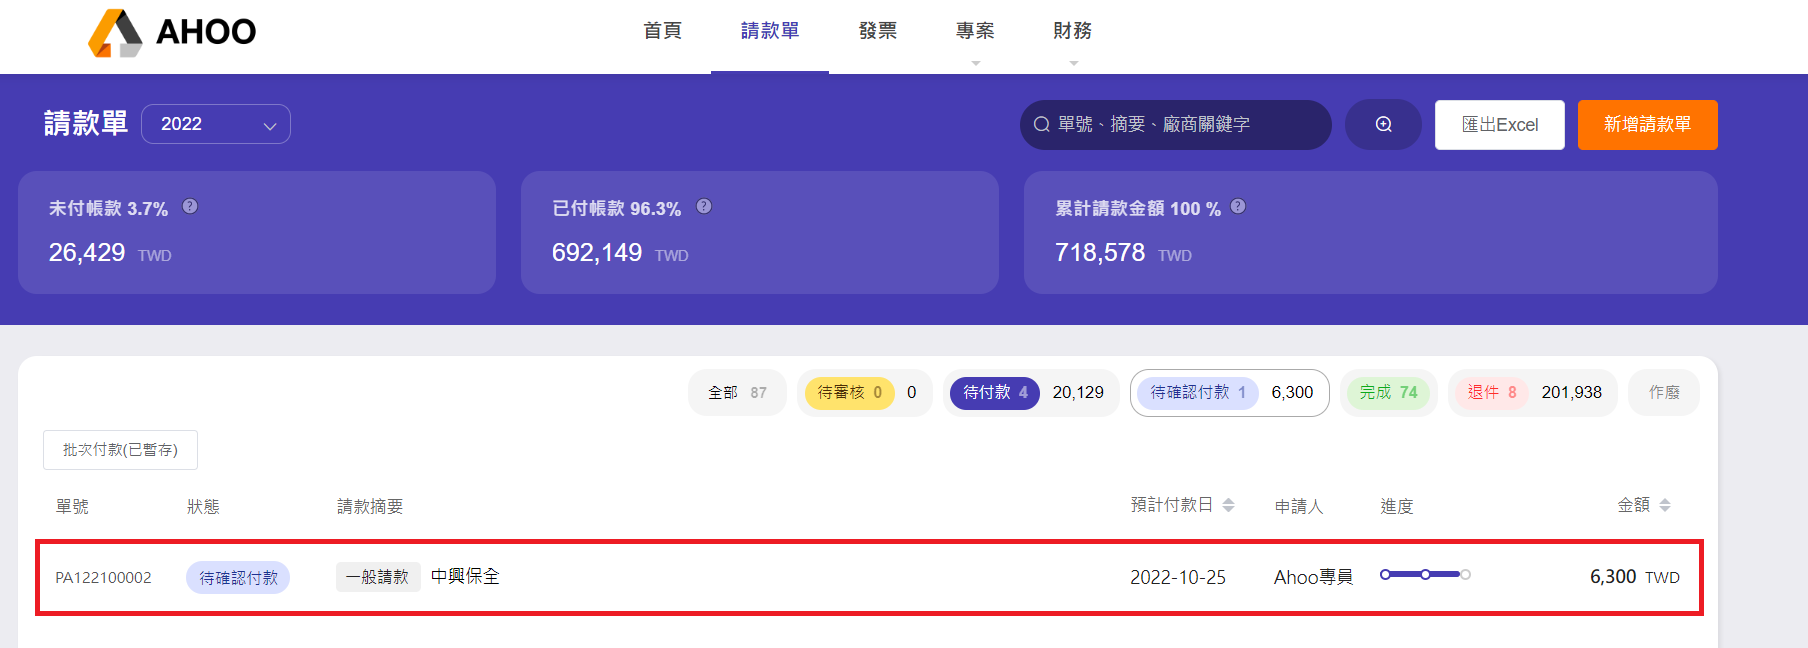
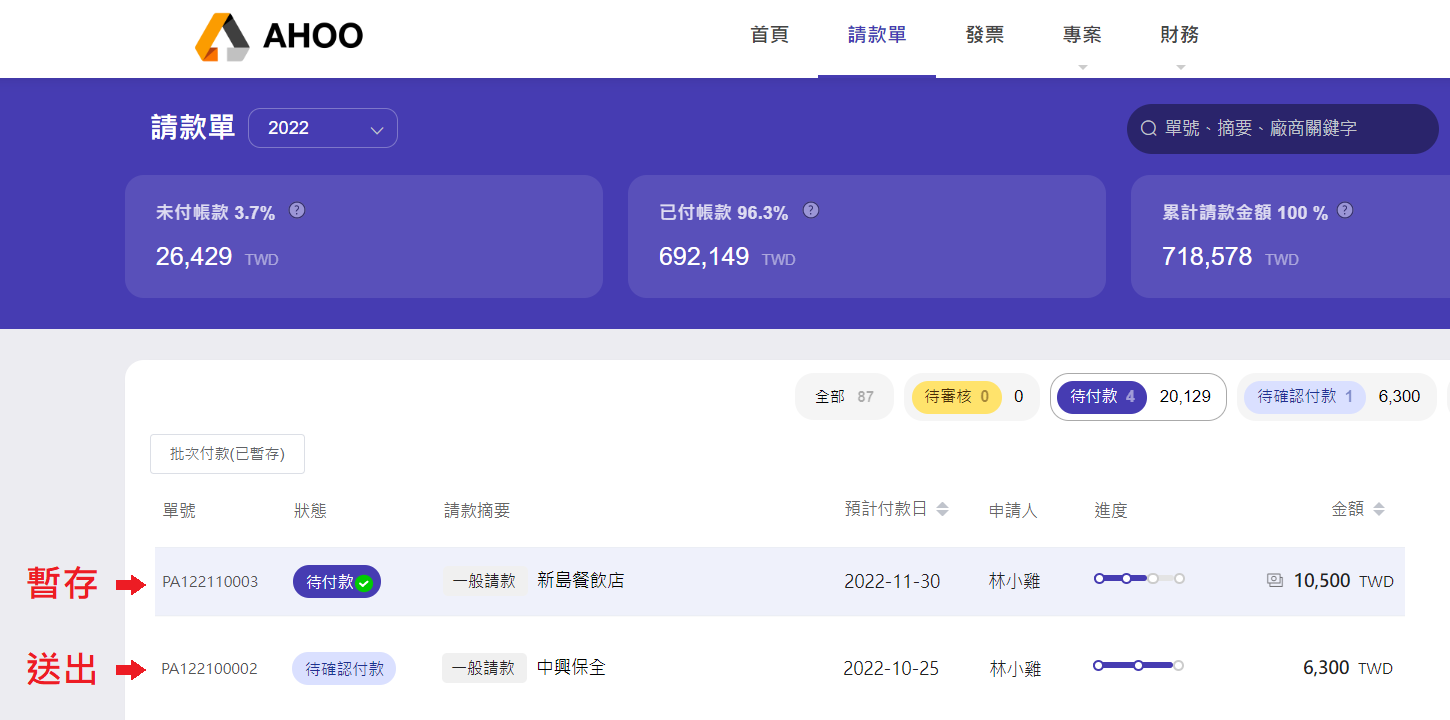
目錄頁/側邊選單調整

diff --git a/docs/.vuepress/config.js b/docs/.vuepress/config.js
@@ -22,26 +22,27 @@ module.exports = {
       // ----------------------------------------
       "/employee/": [
         {
-          text: "[專案]",
-          collapsable: true,
+          text: "專案",
+          collapsable: false,
           children: [
+            {
+              text: "專案管理",
+              link: "/employee/project/create-project/",
+            },
             {
               text: "客戶管理",
               link: "/employee/project/vendor/",
             },
+
             {
               text: "委外管理",
               link: "/employee/project/outsourcing/",
             },
-            {
-              text: "專案管理(PM)",
-              link: "/employee/project/create-project/",
-            },
           ],
         },
         {
-          text: "[請款單]",
-          collapsable: true,
+          text: "請款單",
+          collapsable: false,
           children: [
             {
               text: "新增請款單",
@@ -54,8 +55,8 @@ module.exports = {
           ],
         },
         {
-          text: "[發票]",
-          collapsable: true,
+          text: "發票",
+          collapsable: false,
           children: [
             {
               text: "",
@@ -79,8 +80,8 @@ module.exports = {
       // ----------------------------------------
       "/executive/": [
         {
-          text: "[請款單]",
-          collapsable: true,
+          text: "請款單",
+          collapsable: false,
           children: [
             {
               text: "請款單付款",
@@ -89,22 +90,12 @@ module.exports = {
           ],
         },
         {
-          text: "[發票]",
-          collapsable: true,
+          text: "發票",
+          collapsable: false,
           children: [
             {
               text: "開立發票",
               link: "/executive/invoice/invoice-pass/",
-            },
-          ],
-        },
-        {
-          text: "[財務]",
-          collapsable: true,
-          children: [
-            {
-              text: "發票字軌管理",
-              link: "/executive/finance/invoice-serial-number/",
             },
           ],
         },
@@ -114,8 +105,8 @@ module.exports = {
       // ----------------------------------------
       "/finance/": [
         {
-          text: "[請款]",
-          collapsable: true,
+          text: "請款",
+          collapsable: false,
           children: [
             {
               text: "確認付款",
@@ -128,8 +119,8 @@ module.exports = {
           ],
         },
         {
-          text: "[發票]",
-          collapsable: true,
+          text: "發票",
+          collapsable: false,
           children: [
             {
               text: "發票入帳",
@@ -138,12 +129,16 @@ module.exports = {
           ],
         },
         {
-          text: "[財務]",
-          collapsable: true,
+          text: "財務",
+          collapsable: false,
           children: [
             {
               text: "填寫匯費",
               link: "/finance/finance/remittances/",
+            },
+            {
+              text: "發票字軌管理",
+              link: "/finance/finance/invoice-serial-number/",
             },
           ],
         },

diff --git a/docs/README.md b/docs/README.md
@@ -1,17 +1,23 @@
 # Ahoo 操作手冊
 
+## 專案
+
+| 角色              | 工作                                                                                                                                      |
+| ----------------- | ----------------------------------------------------------------------------------------------------------------------------------------- |
+| [員工](/employee) | [專案管理](/employee/project/create-project)<br> [客戶管理](/employee/project/outsourcing/)<br>[委外管理](/employee/project/outsourcing/) |
+
 ## 請款
 
-| 角色               |                                                                                                          |
+| 角色               | 工作                                                                                                     |
 | ------------------ | -------------------------------------------------------------------------------------------------------- |
-| [員工](/employee)  | [新增請款單](/employee/payment/create-payment/)<br>[申請人自行取回](/employee/payment/retrieve-payment/) |
+| [員工](/employee)  | [新增請款單](/employee/payment/create-payment/)<br>[自行退回再編輯](/employee/payment/retrieve-payment/) |
 | [行政](/executive) | [請款單付款](/executive/payment/detail/)                                                                 |
 | [財務](/finance)   | [確認付款](/finance/payment/done/)<br>[填寫匯費](/finance/finance/remittances/)                          |
 
 ## 開立發票
 
-| 角色               |                                                                                                       |
-| ------------------ | ----------------------------------------------------------------------------------------------------- |
-| [員工](/employee)  | [建立專案(PM)](/employee/project/create-project)<br>[申請開立發票](/employee/invoice/create-invoice/) |
-| [行政](/executive) | [開立發票](/executive/invoice/invoice-pass/)                                                          |
-| [財務](/finance)   | [發票入帳](/finance/invoice/invoice-done/)                                                            |
+| 角色               | 工作                                                                                                       |
+| ------------------ | ---------------------------------------------------------------------------------------------------------- |
+| [員工](/employee)  | [申請開立發票](/employee/invoice/create-invoice/)<br>[自行退回再編輯](/employee/invoice/retrieve-invoice/) |
+| [行政](/executive) | [開立發票](/executive/invoice/invoice-pass/)                                                               |
+| [財務](/finance)   | [發票入帳](/finance/invoice/invoice-done/)<br>[發票字軌管理](/finance/finance/invoice-serial-number/)      |

diff --git a/docs/finance/finance/variable-statement/README.md b/docs/finance/finance/variable-statement/README.md
@@ -8,30 +8,6 @@
 有編輯需求時，請至**原功能頁面**操作。
 :::
 
-## -新增存款帳戶互轉
-
-當台外幣轉換，或自家的兩家銀行金流調度運用，可使用此功能。  
-同時操作兩帳戶的收入與支出，並建立匯費。 <br>
-
-點選右上角『新增存款帳戶互轉』  
-![帳戶互轉](./bank-transfer-1.png)  
-以 **台外幣互換** 為例
-
-- 一邊選擇台幣帳戶，另一邊選取外幣帳戶。
-- 填寫**轉出日期**，轉入日期會自動連動為**轉出日期**。
-- 填寫**轉出金額**時，將自動計算**轉入金額**。
-- 填寫**匯率**，若有**匯費**也請於此時登載。
-- 選擇正確的**支出項目**與**收入項目**。
-- 備註將自動存入此時填寫的匯率。
-- 按下『送出』，便會產生財務收入與財務支出，與匯費的財務支出。  
-  ![帳戶互轉](./bank-transfer-2.png)
-  ![帳戶互轉](./bank-transfer-3.png)
-  :::warning 注意：
-
-- 若自動帶入轉入日期後，又手動調整轉入日期，不自動連動轉出日期
-- 新增『帳戶互轉』後，若發現輸入錯誤，需再次進行編輯時，<br/>兩筆資料不連動，請**分別修改**兩筆資料的正確資訊。  
-  :::
-
 ## -新增財務收入
 
 點選右上角『新增財務收入』  
@@ -51,14 +27,18 @@
 ![其他支出](./expend-2.png)
 ![資產負債支出](./expend-3.png)
 
-## -調整排序
+## -新增存款帳戶互轉
 
-預設依 **建立時間** 排序，最晚新增的項目在最上方。  
-點選＂繳費／收款日期＂欄位（或 △▽）  
-可切換排序方式：由舊到新 → 由新到舊 → 預設  
-![財務收支排序](./sort.gif)
+當台外幣轉換，或自家的兩家銀行金流調度運用，可使用此功能。  
+同時操作兩帳戶的收入與支出，並建立匯費。 <br>
 
-## -匯出 Excel
+點選右上角『新增存款帳戶互轉』  
+![帳戶互轉](./bank-transfer-1.png)  
+以 **台外幣互換** 為例
 
-點選右上角『匯出 Excel』，檔案將依收入與支出分開建立兩個分頁。  
-![財務收支匯出](./excel.png)
+- 備註將自動存入此時填寫的匯率。
+- 按下『送出』，產生『財務收入』、『財務支出』、『匯費』。  
+  ![帳戶互轉](./bank-transfer-2.png)
+  ![帳戶互轉](./bank-transfer-3.png)
+  :::warning 注意：
+  新增『帳戶互轉』後，若發現輸入錯誤，請**逐一修改**支出與收入的正確資訊。

diff --git a/docs/executive/payment/detail/README.md b/docs/executive/payment/detail/README.md
@@ -1,16 +1,18 @@
 # 請款單付款
 
-首頁-待辦請款單
+## Step 1：選擇待付款的請款單
+
+在首頁的『待辦請款單』有待您處理的請款單。
 
 ![待辦請款單](./index.png)
-
-## Step 1：選擇待付款的請款單
 
 ## Step 2：核對內容與付款資訊
 
 如果資料有錯誤，按 **『退件』** 按鈕  
-寫明原因，**送出退件** ，將請款單退回申請人。  
+寫明原因，**送出退件** ，將請款單退回申請人。
+
 ![待辦請款單](./detail.gif)
+
 ![填寫付款明細](./next.png)
 
 ## **Step 3：填寫付款明細**
@@ -21,11 +23,9 @@
 
 ## **Step 4：送出付款明細**
 
-![付款明細](./save-1.png)
+暫存可點選『暫存付款明細』  
+如已付款可點選『送出付款明細』
 
-![付款明細](./save-2.png)
+![暫存/送出付款明細](./end-1.png)
 
----
-
-![付款明細](./end-1.png)  
-![付款明細](./end-2.png)
+![待付款/待確認付款](./end-2.png)

diff --git a/docs/employee/project/outsourcing/README.md b/docs/employee/project/outsourcing/README.md
@@ -1,13 +1,17 @@
-# 廠商資料
+# 委外管理
+
+## 廠商資料
+
+建立廠商與供應商的資料。
 
 ![新增](./outsourcing.png)
 
-## Step 1：點選『新增廠商』
+### Step 1：點選『新增廠商』
 
 點選『新增廠商』  
 ![新增廠商](./vd-add-1.png)
 
-## Step 2：填寫基本資訊
+### Step 2：填寫基本資訊
 
 - 填寫基本資訊，選擇類型，若無，可使用旁邊的『＋』來新增類型
 
@@ -19,15 +23,17 @@
 
 ## 委外個人資料
 
-## Step 1：點選『委外個人』頁籤
+建立委外個人與工作室的資料。
+
+### Step 1：點選『委外個人』頁籤
 
 ![委外管理](./os-add-1.png)
 
-## Step 2：點選『新增個人』
+### Step 2：點選『新增個人』
 
 ![新增個人](./os-add-2.png)
 
-## Step 3：填寫基本資訊
+### Step 3：填寫基本資訊
 
 - 填寫基本資訊，選擇類型，若無，可使用旁邊的『＋』來新增類型
 

diff --git a/docs/executive/invoice/invoice-pass/README.md b/docs/executive/invoice/invoice-pass/README.md
@@ -1,14 +1,15 @@
 # 開立發票
 
-首頁-待辦發票  
-![發票開立](./index.png)
-
 ## Step 1：點選待開立發票申請單
+
+在首頁的『待辦發票』有待您處理的發票。  
+![發票開立](./index.png)
 
 ## Step 2：核對內容與資訊
 
 如果資料有錯誤，按 **『退件』** 按鈕  
-寫明原因，**送出退件** ，將發票退回申請人。  
+寫明原因，**送出退件** ，將發票退回申請人。
+
 ![退件](./invoice-retrieve.png)
 
 ## Step 3：點選『開立發票』

diff --git a/docs/finance/finance/invoice-serial-number/README.md b/docs/finance/finance/invoice-serial-number/README.md
@@ -1,6 +1,6 @@
 # 發票字軌管理
 
-**財務　 → 　管理　 → 　發票字軌管理**
+建立購買的發票期別，減少輸入時的出錯率。
 
 ![發票字軌管理](./invoice-serial-number.png)
 
@@ -12,6 +12,6 @@
 ![新增字軌](./new.png)
 
 :::info 開立發票，選擇字軌
-若該月有兩筆存入的字軌，將顯示在下方，直接點選即可自動帶入前 7 碼。 　
+若該月有兩筆字軌，將顯示在下方，點選自動帶入前 7 碼。 　
 ![選擇字軌](./invoice.png)
 :::

diff --git a/docs/employee/README.md b/docs/employee/README.md
@@ -2,14 +2,13 @@
 
 ##### **專案**
 
+- [專案管理](/employee/project/create-project/)
 - [客戶管理](/employee/project/vendor/)
 - [委外管理](/employee/project/outsourcing/)
 
-- [專案管理](/employee/project/create-project/)
-
 ##### **請款單申請**
 
-- [申請請款單](/employee/payment/create-payment-normal/)
+- [新增請款單](/employee/payment/create-payment/)
 - [自行退回再編輯](/employee/payment/retrieve-payment/)
 
 ##### **申請開立發票**

diff --git a/docs/employee/invoice/create-invoice/README.md b/docs/employee/invoice/create-invoice/README.md
@@ -13,12 +13,8 @@
   專案需勾選欲開立的期別（多個專案開同一張發票，點選 **"增加專案"** 。）  
    ![多個專案](./project-2.png)
 
-- 買受人(客戶)自動帶入專案資料，也可修改。
-
-![選擇客戶](./customer.gif)
-
 - 選擇發票日期與預計收款日，可預覽審核流程。
-- 填寫發票項目
+- 填寫發票項目  
   ![送出](./project-3.png)
 
 ## Step 3：送出

diff --git a/docs/finance/invoice/invoice-done/README.md b/docs/finance/invoice/invoice-done/README.md
@@ -1,9 +1,9 @@
 # 發票入帳
 
-首頁-待辦發票  
-![發票入帳](./index.png)
+## Step 1：點選待入帳發票
 
-## Step 1：選擇待入帳發票
+在首頁的『待辦發票』有待您處理的發票。  
+![發票入帳](./index.png)
 
 ## Step 2：新增入帳
 

diff --git a/docs/finance/payment/done/README.md b/docs/finance/payment/done/README.md
@@ -1,9 +1,8 @@
 # 確認付款
 
-首頁-待辦請款單
-
 ## Step 1：選擇待確認付款的請款單
 
+在首頁的『待辦請款單』有待您處理的請款單。  
 ![確認付款](./index.png)
 
 ## Step 2：檢查付款資訊正確，點選確認付款

diff --git a/docs/employee/project/create-project/README.md b/docs/employee/project/create-project/README.md
@@ -1,6 +1,6 @@
 # 專案管理
 
-由專案 PM 建立資料，在各自專案中申請專案請款與開立發票。
+建立專案資料，在各自專案中申請專案請款與開立發票。
 
 ![專案管理](./main.png)
 
